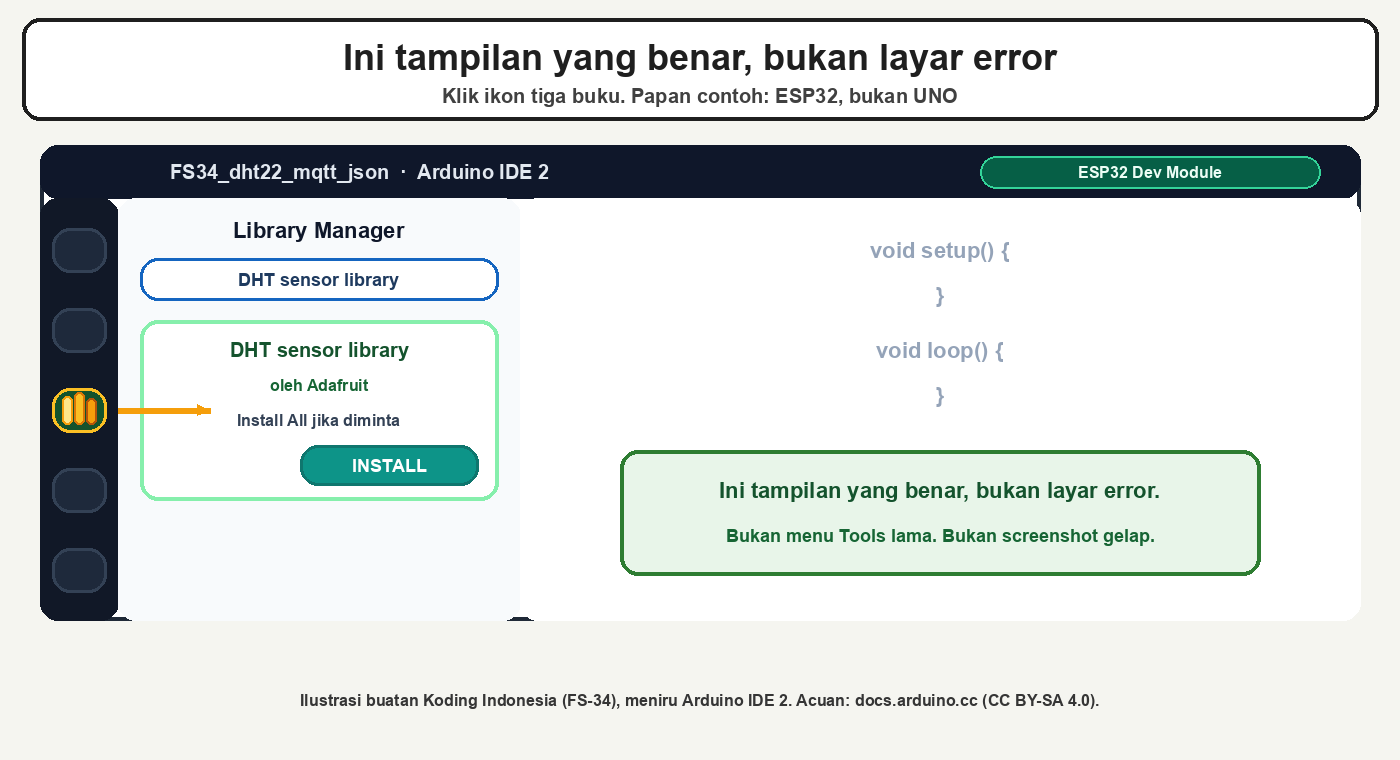
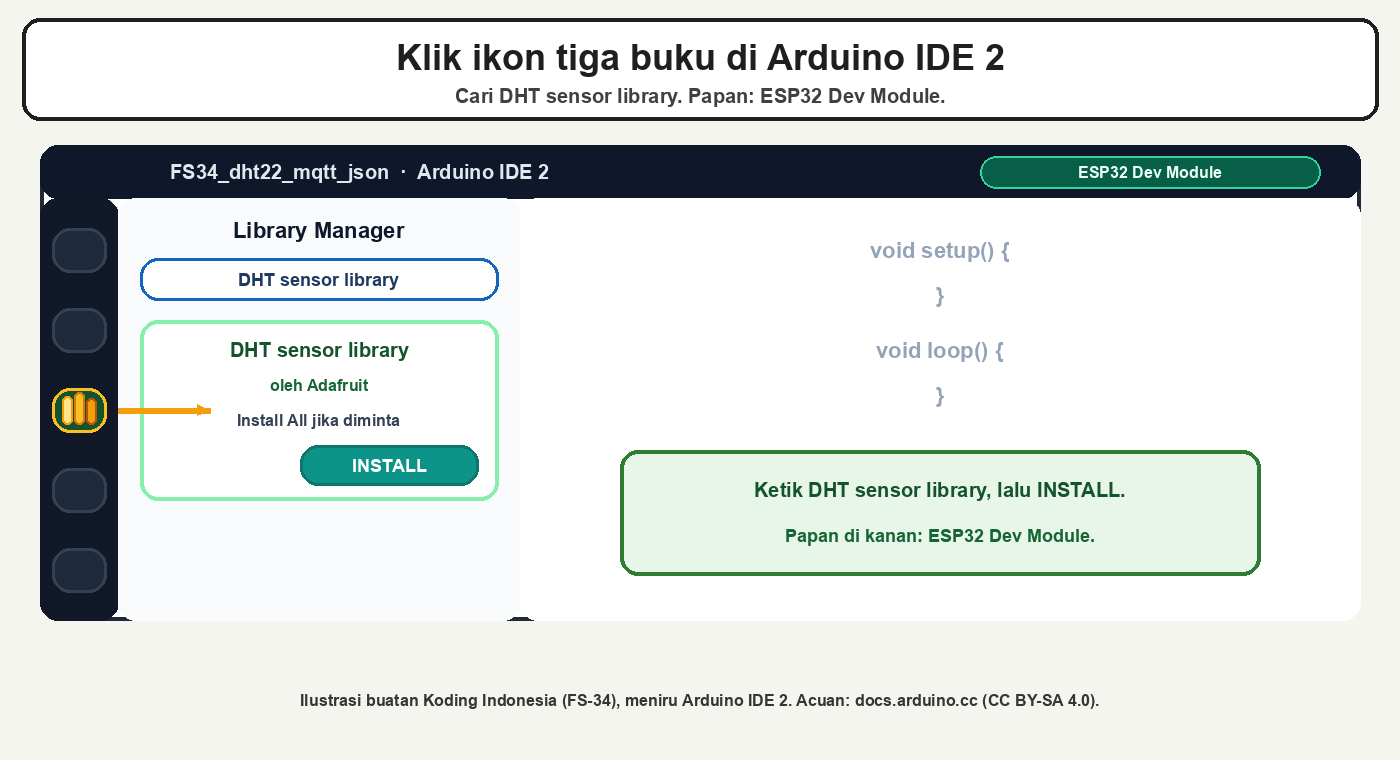
fix(fsiot): rewrite FS-34 captions that sounded like an error
Replace Library Manager and MQTTX mockups that said bukan layar error with concrete steps: book icon plus INSTALL, and JSON already visible at the PC IPv4 host.

Changed region(s): [[0.2457, 0.0605, 0.7679, 0.1513], [0.4914, 0.6355, 0.8293, 0.6658], [0.5221, 0.6961, 0.8293, 0.7263]]

diff --git a/database/seeders/Article104Seeder.php b/database/seeders/Article104Seeder.php
@@ -182,12 +182,12 @@ class Article104Seeder extends Seeder
     {
         $sketch = htmlspecialchars($this->sketch(), ENT_QUOTES, 'UTF-8');
         $tools = $this->figure('fs34-tools-order.png', 'Urutan lima langkah: browser, Arduino IDE, kabel DHT22, PowerShell, lalu MQTTX', '<strong>Urutan meja kerja (lima langkah):</strong> browser → Arduino IDE (ikon buku) → kabel DHT22 → PowerShell untuk IP dan broker → MQTTX. Connect MQTTX hanya setelah angka <code>1883</code> terlihat. Diagram buatan Koding Indonesia (FS-34).');
-        $library = $this->figure('fs34-library-manager.png', 'Ilustrasi Library Manager Arduino IDE 2: ikon tiga buku, pencarian DHT sensor library, tombol INSTALL, papan ESP32', '<strong>Ini tampilan yang benar, bukan layar error.</strong> Ikon tiga buku di bilah kiri, ketik <em>DHT sensor library</em>, lalu pilih <strong>INSTALL</strong>. Papan di pojok kanan adalah <strong>ESP32</strong>, bukan UNO. Ilustrasi buatan Koding Indonesia (FS-34), meniru Arduino IDE 2. Screenshot jendela resmi tidak dipakai utuh karena gelap dan menampilkan papan UNO. Acuan langkah: <a href="https://docs.arduino.cc/software/ide-v2/tutorials/ide-v2-installing-a-library/" target="_blank" rel="noopener noreferrer">Installing libraries — Arduino IDE 2</a>, Arduino S.r.l. Dokumentasi Arduino berlisensi Creative Commons Attribution-Share Alike 4.0.');
+        $library = $this->figure('fs34-library-manager.png', 'Ilustrasi Library Manager Arduino IDE 2: ikon tiga buku, pencarian DHT sensor library, tombol INSTALL, papan ESP32', '<strong>Klik ikon tiga buku di bilah kiri.</strong> Ketik <em>DHT sensor library</em>, lalu pilih <strong>INSTALL</strong>. Papan di pojok kanan adalah <strong>ESP32</strong>, bukan UNO. Ilustrasi buatan Koding Indonesia (FS-34), meniru Arduino IDE 2. Screenshot jendela resmi tidak dipakai utuh karena gelap dan menampilkan papan UNO. Acuan langkah: <a href="https://docs.arduino.cc/software/ide-v2/tutorials/ide-v2-installing-a-library/" target="_blank" rel="noopener noreferrer">Installing libraries — Arduino IDE 2</a>, Arduino S.r.l. Dokumentasi Arduino berlisensi Creative Commons Attribution-Share Alike 4.0.');
         $wiring = $this->figure('fs34-wiring-dht22.png', 'Wiring modul DHT22 tiga pin ke ESP32 menurut label VCC, DATA, dan GND', '<strong>Gambar utama — wiring.</strong> Cocokkan tulisan pin: VCC → 3V3, DATA atau DAT → GPIO 4, GND → GND. Urutan kaki fisik bisa berbeda antarmodul. Diagram buatan Koding Indonesia (FS-34).');
         $dhtPhoto = $this->figure('kit-dht22.jpg', 'Contoh rupa modul DHT22 AM2302 pada papan merah, tiga pin berlabel DAT, VCC, dan GND', '<strong>Contoh rupa modul saja.</strong> Foto ini membantu mengenali sensor. <strong>Jangan menyalin urutan kaki dari foto.</strong> Wiring tetap menurut tulisan pin: VCC → 3V3, DATA atau DAT → GPIO 4, GND → GND. Pada foto ini, dari atas ke bawah tertulis DAT / VCC / GND — itu milik modul ini, bukan milik semua modul. Sumber: <a href="https://commons.wikimedia.org/wiki/File:DHT_22_Sensor.jpg" target="_blank" rel="noopener noreferrer">AM2302 DHT22 Sensor</a> · L293D · Wikimedia Commons · Creative Commons Attribution-Share Alike 4.0.');
         $lan = $this->figure('fs34-lan-address.png', 'ESP32 memakai alamat IPv4 LAN PC, bukan localhost atau 127.0.0.1', '<strong>Aturan penting:</strong> <code>127.0.0.1</code> pada ESP32 berarti ESP32 itu sendiri. Gunakan IPv4 PC dari <code>ipconfig</code>. Diagram buatan Koding Indonesia (FS-34).');
         $flow = $this->figure('fs34-json-flow.png', 'Alur kiri ke kanan: DHT22, ESP32, Mosquitto, lalu MQTTX menampilkan JSON', '<strong>Gambar utama — alur data.</strong> Baca dari kiri ke kanan: DHT22 → ESP32 → Mosquitto → MQTTX. Diagram buatan Koding Indonesia (FS-34).');
-        $mqttxJson = $this->figure('fs34-mqttx-json.png', 'Ilustrasi MQTTX tersambung ke IPv4 PC dan menampilkan JSON telemetry DHT22', '<strong>Ini tampilan yang benar, bukan layar error.</strong> Host = IPv4 PC, Port = <code>1883</code>, lalu JSON suhu dan kelembapan muncul di daftar pesan. Jangan salin Host dari screenshot internet. Ilustrasi buatan Koding Indonesia (FS-34), meniru tata letak aplikasi resmi <a href="https://mqttx.app/" target="_blank" rel="noopener noreferrer">MQTTX oleh EMQ</a> (Apache License 2.0). Screenshot jendela resmi tidak dipakai utuh karena menampilkan broker publik. Angka <code>192.168.1.23</code> hanya contoh.');
+        $mqttxJson = $this->figure('fs34-mqttx-json.png', 'Ilustrasi jendela MQTTX yang sudah menampilkan JSON DHT22: Host IPv4 PC, Port 1883', '<strong>MQTTX sudah menampilkan JSON dari ESP32.</strong> Host = IPv4 PC, Port = <code>1883</code>. JSON suhu dan kelembapan muncul di daftar pesan. Jangan salin Host dari screenshot internet. Ilustrasi buatan Koding Indonesia (FS-34), meniru tata letak aplikasi resmi <a href="https://mqttx.app/" target="_blank" rel="noopener noreferrer">MQTTX oleh EMQ</a> (Apache License 2.0). Screenshot jendela resmi tidak dipakai utuh karena menampilkan broker publik. Angka <code>192.168.1.23</code> hanya contoh.');
         $troubleshooting = $this->figure('fs34-troubleshooting.png', 'Empat pemeriksaan jika telemetry ESP32 belum muncul di MQTTX', '<strong>Skema bantu.</strong> Periksa kabel, Wi-Fi, broker serta IP PC, lalu MQTTX. Diagram buatan Koding Indonesia (FS-34).');
         $install = $this->stepsCard([
             ['title' => 'Buka browser', 'text' => 'Pakai Chrome, Firefox, Edge, atau Safari. Siapkan artikel ini dan halaman resmi Arduino. Jangan Upload sketch dulu.'],
@@ -390,12 +390,12 @@ HTML;
     {
         $sketch = htmlspecialchars($this->sketch(), ENT_QUOTES, 'UTF-8');
         $tools = $this->figure('fs34-tools-order.png', 'Five-step tool order: browser, Arduino IDE, DHT22 wiring, PowerShell, then MQTTX', '<strong>Desk order (five steps):</strong> browser → Arduino IDE (book icon) → DHT22 wiring → PowerShell for IP and broker → MQTTX. Connect MQTTX only after <code>1883</code> is visible. Diagram by Koding Indonesia (FS-34).');
-        $library = $this->figure('fs34-library-manager.png', 'Arduino IDE 2 Library Manager illustration: three-book icon, DHT sensor library search, INSTALL, ESP32 board', '<strong>This is the correct view, not an error screen.</strong> The three-book icon in the left bar, type <em>DHT sensor library</em>, then choose <strong>INSTALL</strong>. The board in the top-right is an <strong>ESP32</strong>, not an UNO. Illustration by Koding Indonesia (FS-34), modelled on Arduino IDE 2. The official window screenshot is not used as-is because it is dimmed and shows an UNO. Step reference: <a href="https://docs.arduino.cc/software/ide-v2/tutorials/ide-v2-installing-a-library/" target="_blank" rel="noopener noreferrer">Installing libraries — Arduino IDE 2</a>, Arduino S.r.l. Arduino documentation is licensed under Creative Commons Attribution-Share Alike 4.0.');
+        $library = $this->figure('fs34-library-manager.png', 'Arduino IDE 2 Library Manager illustration: three-book icon, DHT sensor library search, INSTALL, ESP32 board', '<strong>Click the three-book icon in the left bar.</strong> Type <em>DHT sensor library</em>, then choose <strong>INSTALL</strong>. The board in the top-right is an <strong>ESP32</strong>, not an UNO. Illustration by Koding Indonesia (FS-34), modelled on Arduino IDE 2. The official window screenshot is not used as-is because it is dimmed and shows an UNO. Step reference: <a href="https://docs.arduino.cc/software/ide-v2/tutorials/ide-v2-installing-a-library/" target="_blank" rel="noopener noreferrer">Installing libraries — Arduino IDE 2</a>, Arduino S.r.l. Arduino documentation is licensed under Creative Commons Attribution-Share Alike 4.0.');
         $wiring = $this->figure('fs34-wiring-dht22.png', 'Three-pin DHT22 module wiring to ESP32 by VCC, DATA, and GND labels', '<strong>Main figure — wiring.</strong> Match the printed labels: VCC → 3V3, DATA or DAT → GPIO 4, GND → GND. Physical pin order can differ between modules. Diagram by Koding Indonesia (FS-34).');
         $dhtPhoto = $this->figure('kit-dht22.jpg', 'Example DHT22 AM2302 module on a red board with three pins labelled DAT, VCC, and GND', '<strong>Appearance example only.</strong> This photo helps you recognise the sensor. <strong>Do not copy pin order from the photo.</strong> Wiring still follows the printed labels: VCC → 3V3, DATA or DAT → GPIO 4, GND → GND. In this photo the labels read DAT / VCC / GND from top to bottom — that belongs to this module, not to every module. Source: <a href="https://commons.wikimedia.org/wiki/File:DHT_22_Sensor.jpg" target="_blank" rel="noopener noreferrer">AM2302 DHT22 Sensor</a> · L293D · Wikimedia Commons · Creative Commons Attribution-Share Alike 4.0.');
         $lan = $this->figure('fs34-lan-address.png', 'ESP32 uses the PC LAN IPv4 address, not localhost or 127.0.0.1', '<strong>Important:</strong> <code>127.0.0.1</code> on ESP32 means ESP32 itself. Use the PC IPv4 from <code>ipconfig</code>. Diagram by Koding Indonesia (FS-34).');
         $flow = $this->figure('fs34-json-flow.png', 'Left-to-right flow: DHT22, ESP32, Mosquitto, then MQTTX showing JSON', '<strong>Main figure — data flow.</strong> Read left to right: DHT22 → ESP32 → Mosquitto → MQTTX. Diagram by Koding Indonesia (FS-34).');
-        $mqttxJson = $this->figure('fs34-mqttx-json.png', 'MQTTX illustration connected to the PC IPv4 and showing DHT22 telemetry JSON', '<strong>This is the correct view, not an error screen.</strong> Host = the PC IPv4, Port = <code>1883</code>, then temperature and humidity JSON appears in the message list. Do not copy a Host from an internet screenshot. Illustration by Koding Indonesia (FS-34), modelled on the official <a href="https://mqttx.app/" target="_blank" rel="noopener noreferrer">MQTTX by EMQ</a> layout (Apache License 2.0). The official window screenshot is not used as-is because it shows a public broker. The address <code>192.168.1.23</code> is only an example.');
+        $mqttxJson = $this->figure('fs34-mqttx-json.png', 'Illustration of MQTTX already showing DHT22 JSON: PC IPv4 Host, Port 1883', '<strong>MQTTX is already showing JSON from the ESP32.</strong> Host = the PC IPv4, Port = <code>1883</code>. Temperature and humidity JSON appears in the message list. Do not copy a Host from an internet screenshot. Illustration by Koding Indonesia (FS-34), modelled on the official <a href="https://mqttx.app/" target="_blank" rel="noopener noreferrer">MQTTX by EMQ</a> layout (Apache License 2.0). The official window screenshot is not used as-is because it shows a public broker. The address <code>192.168.1.23</code> is only an example.');
         $troubleshooting = $this->figure('fs34-troubleshooting.png', 'Four checks when ESP32 telemetry has not appeared in MQTTX', '<strong>Helper schematic.</strong> Check wiring, Wi-Fi, broker and PC IP, then MQTTX. Diagram by Koding Indonesia (FS-34).');
         $install = $this->stepsCard([
             ['title' => 'Open a browser', 'text' => 'Use Chrome, Firefox, Edge, or Safari. Keep this guide and the official Arduino page ready. Do not Upload a sketch yet.'],

diff --git a/scripts/gen-fs34-assets.py b/scripts/gen-fs34-assets.py
@@ -95,7 +95,7 @@ save(image, 'fs34-tools-order.png')
 # and show an UNO, which looks like a broken image to beginners (same lesson as FS-32 MQTTX).
 image = Image.new('RGB', (1400, 760), '#f5f5f0')
 draw = ImageDraw.Draw(image)
-header(draw, 1400, 'Ini tampilan yang benar, bukan layar error', 'Klik ikon tiga buku. Papan contoh: ESP32, bukan UNO')
+header(draw, 1400, 'Klik ikon tiga buku di Arduino IDE 2', 'Cari DHT sensor library. Papan: ESP32 Dev Module.')
 box(draw, (40, 145, 1360, 620), '#ffffff', '#1f2937', 4)
 box(draw, (40, 145, 1360, 198), '#0f172a', '#0f172a', 0)
 text(draw, 360, 172, 'FS34_dht22_mqtt_json  ·  Arduino IDE 2', 20, '#e2e8f0')
@@ -124,8 +124,8 @@ text(draw, 940, 295, '}', 22, '#94a3b8')
 text(draw, 940, 350, 'void loop() {', 22, '#94a3b8')
 text(draw, 940, 395, '}', 22, '#94a3b8')
 box(draw, (620, 450, 1260, 575), '#e8f5e9', '#2e7d32', 4)
-text(draw, 940, 490, 'Ini tampilan yang benar, bukan layar error.', 22, '#14532d')
-text(draw, 940, 535, 'Bukan menu Tools lama. Bukan screenshot gelap.', 18, '#166534')
+text(draw, 940, 490, 'Ketik DHT sensor library, lalu INSTALL.', 20, '#14532d')
+text(draw, 940, 535, 'Papan di kanan: ESP32 Dev Module.', 18, '#166534')
 arrow(draw, (118, 410), (210, 410), '#f59e0b', 6, 14)
 text(draw, 700, 700, 'Ilustrasi buatan Koding Indonesia (FS-34), meniru Arduino IDE 2. Acuan: docs.arduino.cc (CC BY-SA 4.0).', 16, '#353535')
 save(image, 'fs34-library-manager.png')
@@ -217,26 +217,25 @@ save(image, 'fs34-troubleshooting.png')
 # MQTTX JSON success — official MQTTX screenshots show a public broker (FS-32 lesson)
 image = Image.new('RGB', (1400, 760), '#f5f5f0')
 draw = ImageDraw.Draw(image)
-header(draw, 1400, 'Ini tampilan yang benar — JSON hidup di MQTTX', 'Host = IPv4 PC, bukan 127.0.0.1. Bukan layar error.')
-box(draw, (50, 145, 1350, 630), '#1f2937', '#111827', 4)
-box(draw, (50, 145, 128, 630), '#111827', '#111827', 0)
-text(draw, 89, 205, 'X', 36, '#34d399')
-text(draw, 89, 275, '+', 28, '#9ca3af')
-box(draw, (128, 145, 430, 630), '#1f2937', '#1f2937', 0)
-text(draw, 279, 190, 'Koneksi', 22, '#e5e7eb')
-box(draw, (150, 225, 410, 345), '#065f46', '#34d399', 3)
-text(draw, 280, 260, 'FS34 telemetry LAN', 18, '#ecfdf5')
-text(draw, 280, 300, 'tersambung', 18, '#a7f3d0')
-box(draw, (430, 145, 1350, 630), '#f8fafc', '#e5e7eb', 0)
+header(draw, 1400, 'MQTTX sudah menampilkan JSON dari ESP32', 'Host = IPv4 PC · Port 1883. Jendela Mosquitto tetap terbuka.')
+box(draw, (50, 145, 1350, 630), '#ffffff', '#1f2937', 4)
+box(draw, (50, 145, 430, 630), '#eef2ff', '#cbd5e1', 0)
+text(draw, 240, 190, 'MQTTX', 28, '#0f766e')
+text(draw, 240, 230, 'Koneksi', 20, '#334155')
+box(draw, (80, 265, 400, 385), '#ecfdf5', '#34d399', 4)
+text(draw, 240, 300, 'FS34 telemetry LAN', 18, '#14532d')
+text(draw, 240, 340, 'tersambung', 18, '#166534')
+box(draw, (430, 145, 1350, 630), '#ffffff', '#e5e7eb', 0)
 text(draw, 890, 185, 'Host  192.168.1.23', 28, '#166534')
 text(draw, 890, 230, 'Port  1883', 28, '#166534')
-text(draw, 890, 280, 'kodingindonesia/fsiot/esp32-meja-01/telemetry', 16, '#334155')
-box(draw, (470, 315, 1310, 500), '#ecfdf5', '#34d399', 4)
-text(draw, 890, 350, '{"device_id":"esp32-meja-01",', 20, '#14532d')
-text(draw, 890, 390, '"temperature_c":27.4,', 20, '#14532d')
-text(draw, 890, 430, '"humidity_pct":63.1}', 20, '#14532d')
-text(draw, 890, 475, 'pesan baru kira-kira tiap 5 detik', 16, '#166534')
-box(draw, (560, 525, 1220, 595), '#e8f5e9', '#2e7d32', 4)
-text(draw, 890, 560, 'Bukan broker publik. Bukan localhost.', 20, '#14532d')
+text(draw, 890, 275, 'kodingindonesia/fsiot/esp32-meja-01/telemetry', 16, '#334155')
+box(draw, (470, 310, 1310, 490), '#ecfdf5', '#34d399', 4)
+text(draw, 890, 345, '{"device_id":"esp32-meja-01",', 20, '#14532d')
+text(draw, 890, 385, '"temperature_c":27.4,', 20, '#14532d')
+text(draw, 890, 425, '"humidity_pct":63.1}', 20, '#14532d')
+text(draw, 890, 465, 'pesan baru kira-kira tiap 5 detik', 16, '#166534')
+box(draw, (560, 515, 1220, 595), '#e8f5e9', '#2e7d32', 4)
+text(draw, 890, 540, 'Isi Host IPv4 PC dari ipconfig.', 18, '#14532d')
+text(draw, 890, 575, '192.168.1.23 hanya contoh.', 18, '#166534')
 text(draw, 700, 700, 'Ilustrasi MQTTX buatan Koding Indonesia (FS-34), meniru tata letak aplikasi resmi EMQ. 192.168.1.23 hanya contoh.', 16, '#353535')
 save(image, 'fs34-mqttx-json.png')

diff --git a/scripts/audit-article104.php b/scripts/audit-article104.php
@@ -58,7 +58,8 @@ check104('numbered install cards exist', str_contains($body, 'list-style:none') 
 check104('tools are named before sketch', strpos($body, 'Buka Arduino IDE') < strpos($body, '#include &lt;WiFi.h&gt;') && str_contains($body, 'Buka dulu PowerShell') && str_contains($body, 'Buka MQTTX setelah broker berjalan'));
 check104('Arduino IDE library path is current and visual guidance is present', str_contains($body, 'Library Manager</strong>') && str_contains($body, 'ikon tiga buku') && str_contains($body, 'Jangan memakai menu lama'));
 check104('old Tools Manage Libraries menu is only mentioned as forbidden', str_contains($body, 'Tools → Manage Libraries') && str_contains($body, 'Jangan memakai menu lama'));
-check104('Library Manager uses a KI illustration not a dimmed official screenshot', str_contains($body, 'Ini tampilan yang benar, bukan layar error') && str_contains($bodyEn, 'This is the correct view, not an error screen') && str_contains($body, 'Screenshot jendela resmi tidak dipakai utuh') && str_contains($bodyEn, 'official window screenshot is not used as-is'));
+check104('Library Manager describes the book-icon step without saying error', str_contains($body, 'Klik ikon tiga buku di bilah kiri') && str_contains($bodyEn, 'Click the three-book icon in the left bar') && str_contains($body, 'Screenshot jendela resmi tidak dipakai utuh') && str_contains($bodyEn, 'official window screenshot is not used as-is') && ! str_contains($body, 'Ini tampilan yang benar, bukan layar error') && ! str_contains($bodyEn, 'This is the correct view, not an error screen'));
+check104('MQTTX JSON state describes Host/JSON without saying error', str_contains($body, 'MQTTX sudah menampilkan JSON dari ESP32') && str_contains($bodyEn, 'MQTTX is already showing JSON from the ESP32') && ! str_contains($body, 'bukan layar error') && ! str_contains($bodyEn, 'not an error screen'));
 check104('Arduino licence is cited', str_contains($body, 'Creative Commons Attribution-Share Alike 4.0') && str_contains($bodyEn, 'Creative Commons Attribution-Share Alike 4.0'));
 check104('UNO is explained as a docs example only', str_contains($body, 'Dokumentasi resmi Arduino kadang menampilkan UNO') && str_contains($bodyEn, 'Official Arduino documentation sometimes shows an UNO'));
 check104('DHT22 photo is cited and pin-order copying is forbidden', str_contains($body, 'kit-dht22.jpg') && str_contains($body, 'commons.wikimedia.org/wiki/File:DHT_22_Sensor.jpg') && str_contains($body, 'Jangan menyalin urutan kaki dari foto') && str_contains($bodyEn, 'Do not copy pin order from the photo'));
